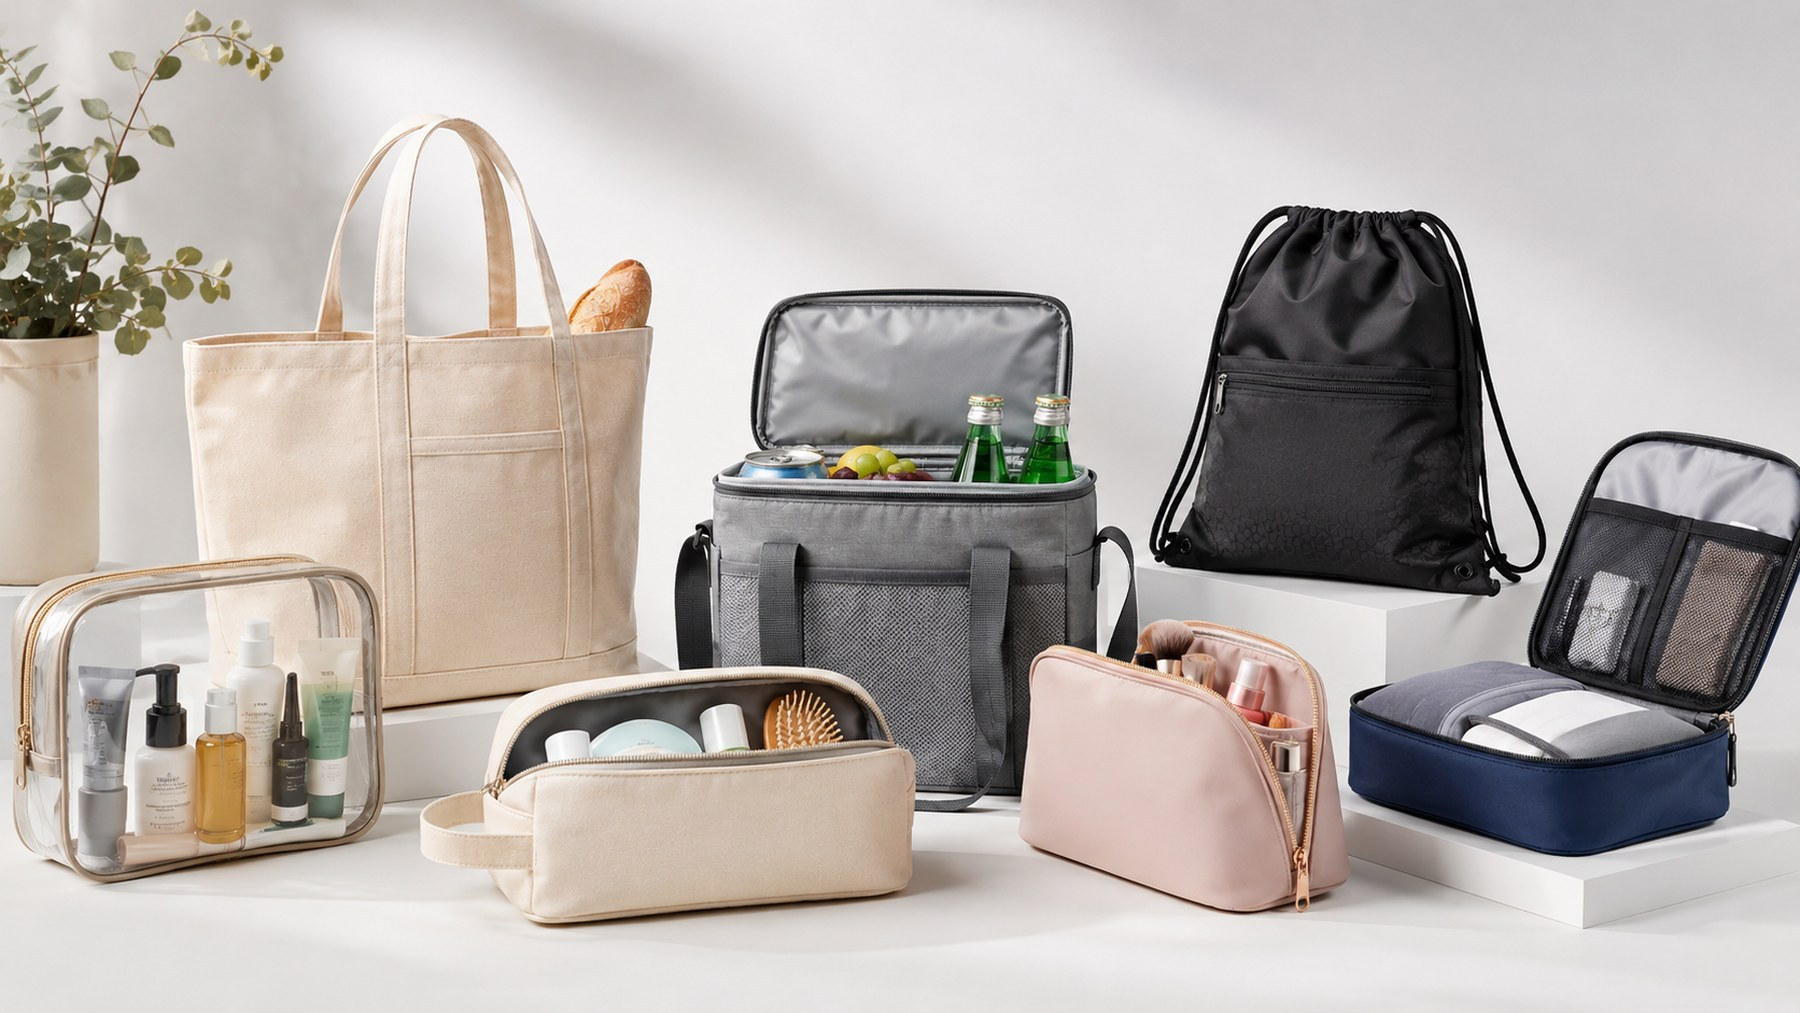
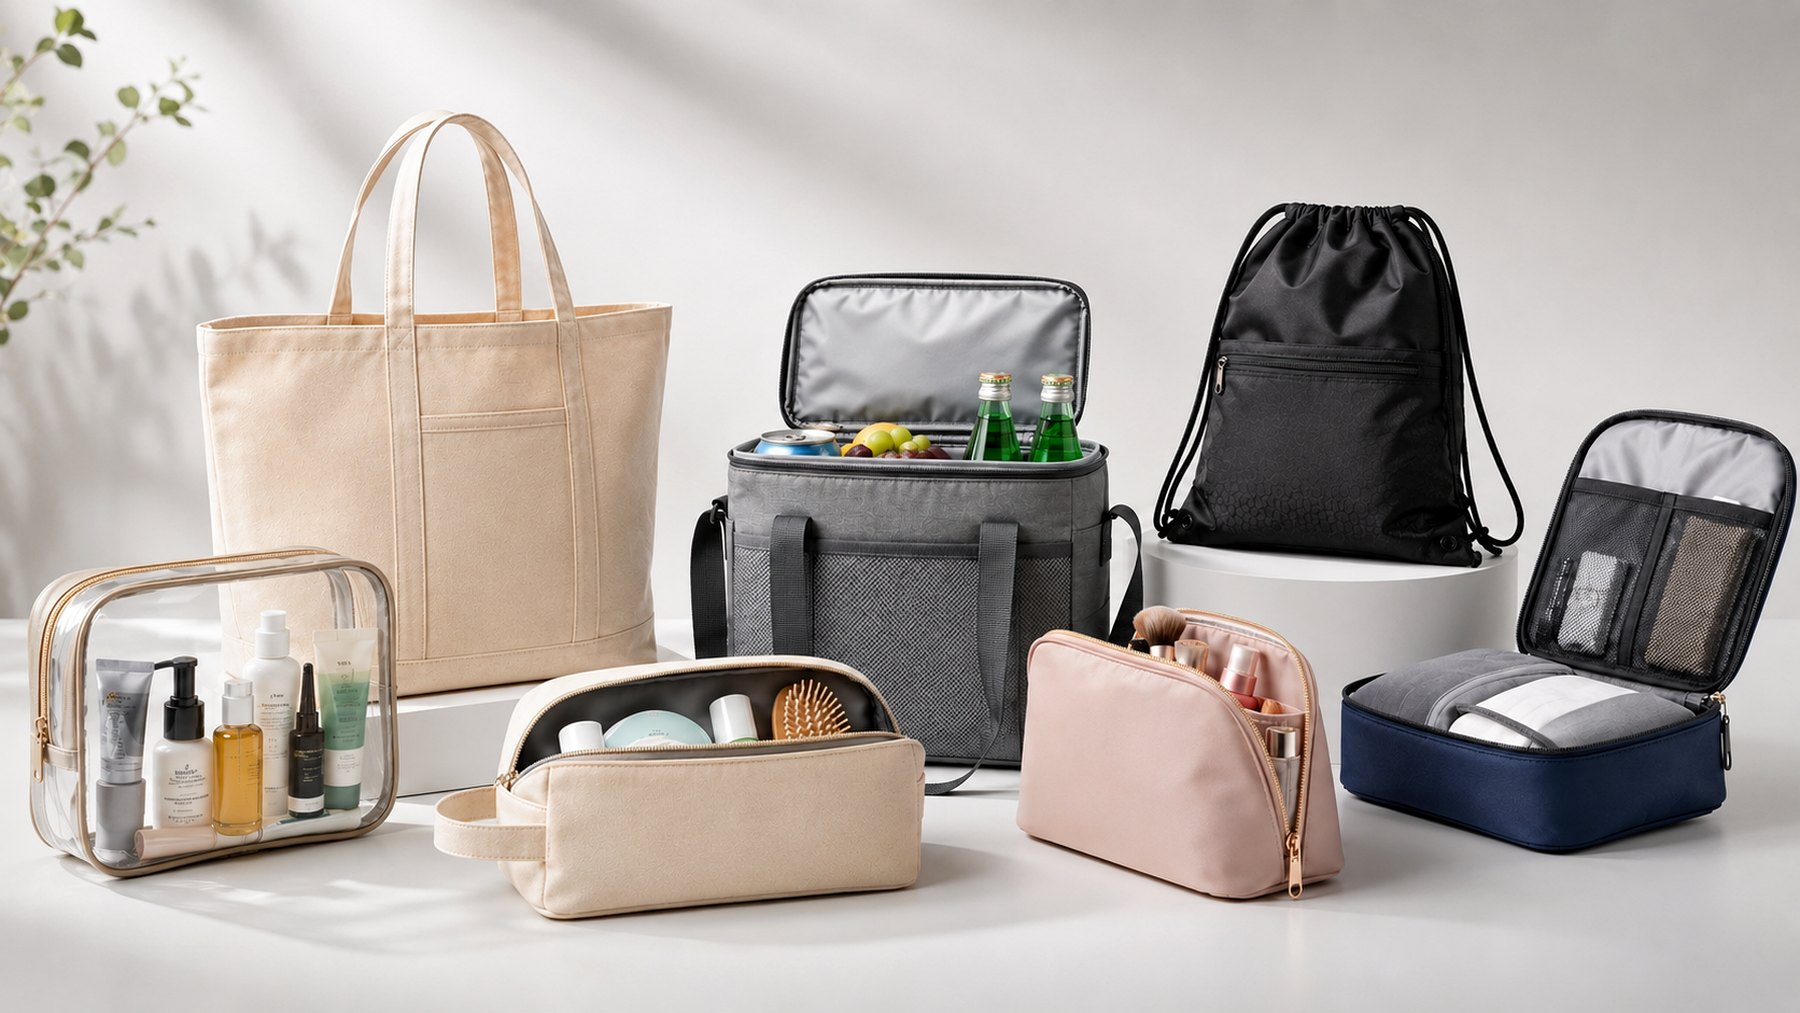
Add files via upload

diff --git a/css/homepage-57.css b/css/homepage-57.css
@@ -98,3 +98,42 @@ a{color:inherit;text-decoration:none}img{max-width:100%;display:block}p,h1,h2,h3
 @media(max-width:1180px){.category-tile{flex-basis:278px}.hero-image-card{min-height:auto}.product-preview-card{grid-template-columns:1fr}.preview-gallery img{height:auto;max-height:360px}.process-steps{grid-template-columns:repeat(3,1fr)}}
 @media(max-width:760px){.process-steps{grid-template-columns:1fr 1fr}.category-tile{flex-basis:248px;grid-template-columns:90px 1fr;min-height:116px}.category-tile img{width:90px;height:88px}.category-tile strong{font-size:18px}.category-tile span{font-size:13px}.hero h1{font-size:37px}.hero-text{font-size:15.5px}.product-preview-card{padding:16px}.preview-specs div{grid-template-columns:1fr}.preview-specs dt,.preview-specs dd{padding:9px 12px}}
 @media(max-width:520px){.process-steps{grid-template-columns:1fr}.process-steps article{min-height:auto}.category-tile{flex-basis:222px}.category-tile img{width:82px;height:82px}.category-tile strong{font-size:17px}.hero h1{font-size:34px}}
+
+/* Olaytech 5.9 - homepage hero image adaptive fit */
+.hero-grid{
+  grid-template-columns:.86fr 1.14fr;
+  align-items:center;
+  gap:34px;
+}
+.hero-image-card{
+  align-self:center;
+  min-height:0 !important;
+  height:auto !important;
+  aspect-ratio:16/9;
+  border-radius:28px;
+  overflow:hidden;
+  background:#f6f8f9;
+  box-shadow:0 24px 70px rgba(8,38,64,.10);
+}
+.hero-image-card::before{display:none;}
+.hero-image-card img{
+  width:100%;
+  height:100% !important;
+  max-height:none !important;
+  aspect-ratio:16/9;
+  object-fit:cover;
+  object-position:center center;
+  border-radius:28px;
+  filter:saturate(1.01) contrast(1.03);
+}
+@media(max-width:1180px){
+  .hero-grid{grid-template-columns:1fr;gap:22px;}
+  .hero-image-card{width:100%;max-width:980px;margin:0 auto 28px;border-radius:24px;}
+  .hero-image-card img{border-radius:24px;}
+}
+@media(max-width:680px){
+  .hero-image-card{aspect-ratio:4/3;border-radius:20px;}
+  .hero-image-card img{border-radius:20px;object-position:center center;}
+}
+.hero-image-card picture{display:block;width:100%;height:100%;}
+.hero-image-card picture img{display:block;}

diff --git a/index.html b/index.html
@@ -77,7 +77,10 @@
           </div>
         </div>
         <figure class="hero-image-card">
-          <img src="assets/home/olay-homepage-hero-products.jpg" alt="Custom bag product collection including cosmetic bags toiletry bags cooler bags tote bags drawstring bags and travel organizers" />
+          <picture>
+            <source srcset="assets/home/olay-homepage-hero-products.webp" type="image/webp" />
+            <img src="assets/home/olay-homepage-hero-products.jpg" width="1800" height="1013" alt="Custom bag product collection including cosmetic bags toiletry bags cooler bags tote bags drawstring bags and travel organizers" fetchpriority="high" decoding="async" />
+          </picture>
         </figure>
       </div>
     </section>